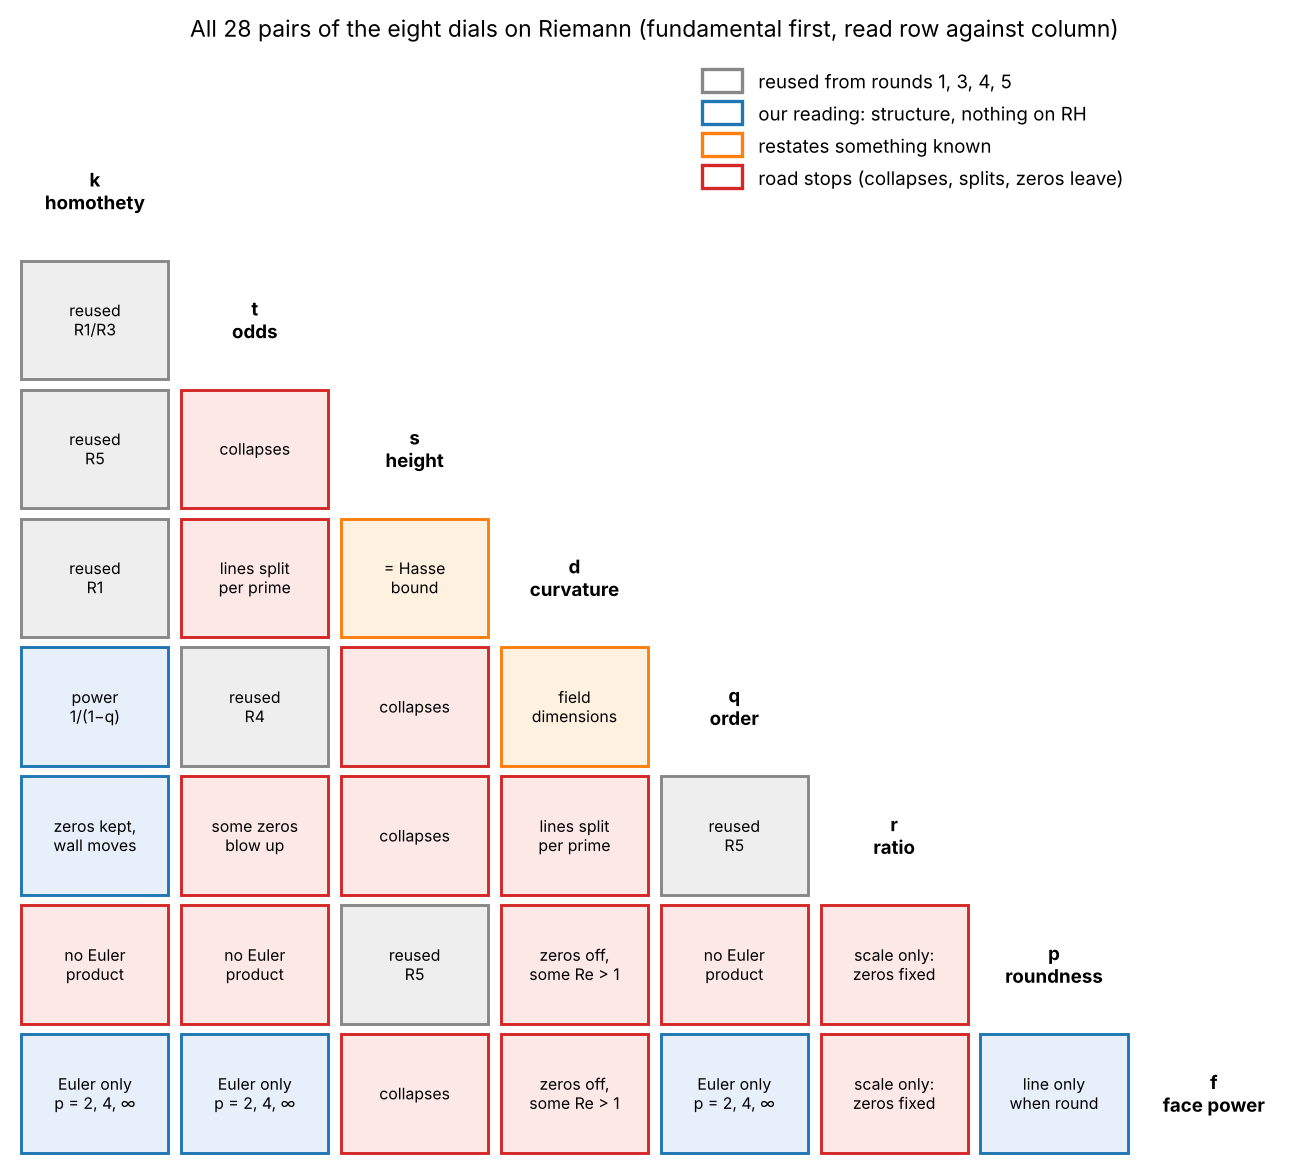
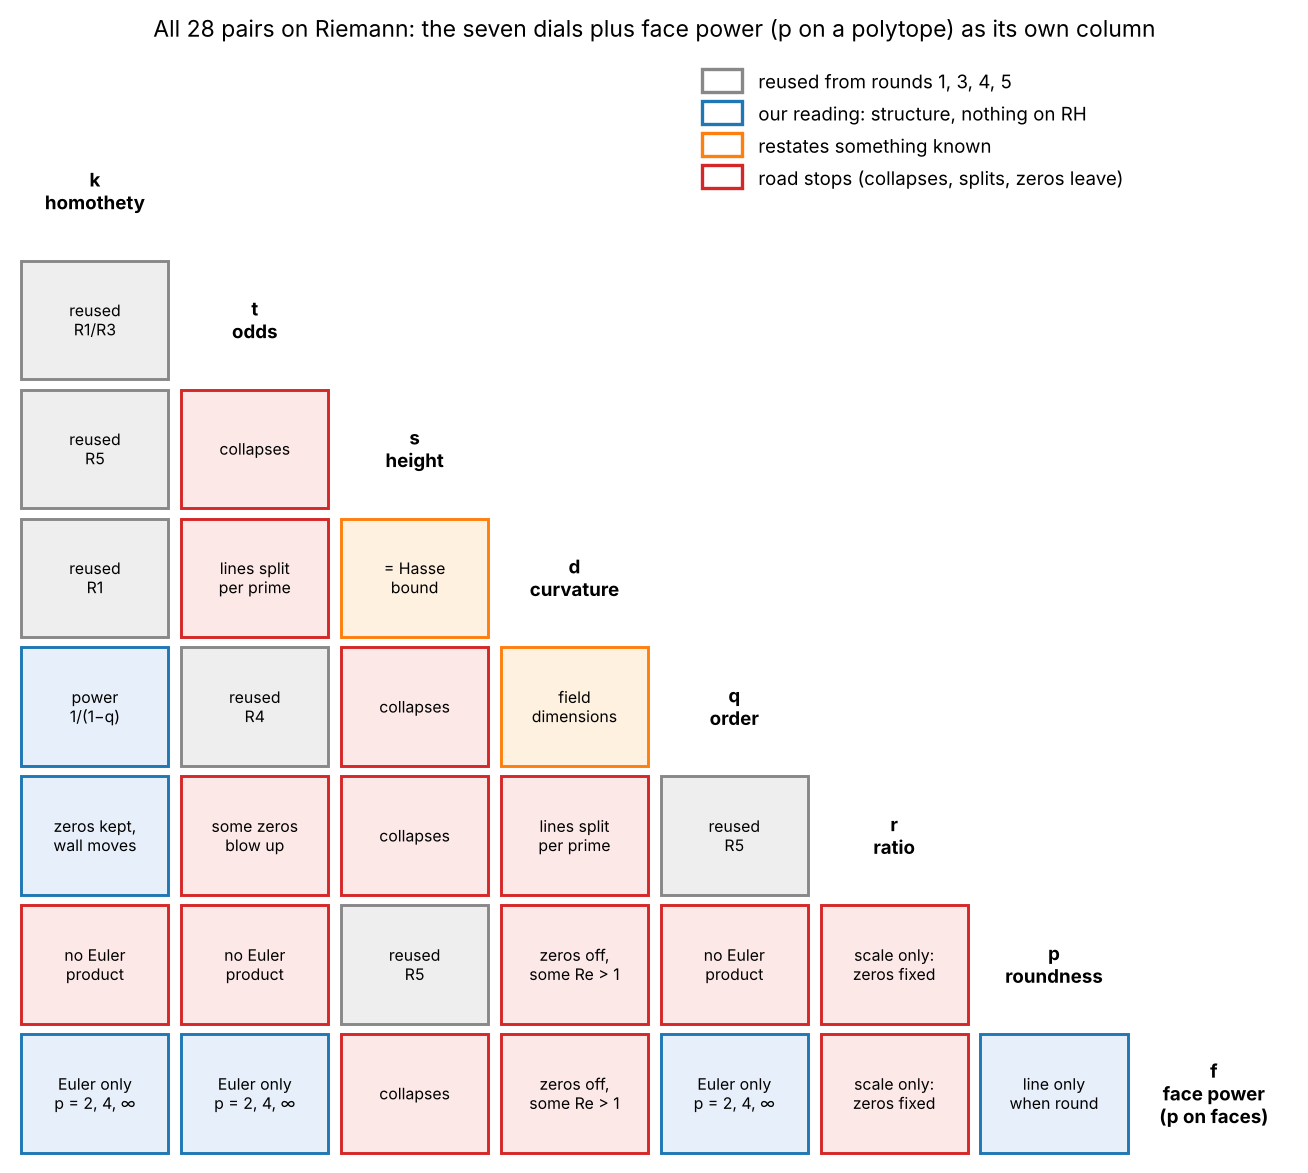
DRAFT: Riemann round 6 reads seven dials, with face power as roundness aimed at a polytope's faces (own column, 28 pairs)
README answer and dials paragraphs, fig0 caption and the Lean line; figures.py and fig0 with the new title and diagonal label. No result changed.

Changed region(s): [[0.1223, 0.0, 0.8869, 0.0307], [0.8869, 0.9207, 0.9786, 0.9821]]

diff --git a/topics/riemann/round6/figures.py b/topics/riemann/round6/figures.py
@@ -10,7 +10,7 @@ LZ = json.load(open('lattice_zeros.json')); EP = json.load(open('euler_pairs.jso
 LP = json.load(open('lattice_pairs.json')); RB = json.load(open('robustness.json'))
 
 # ---------------- fig0: the pair map
-D = ['k\nhomothety', 't\nodds', 's\nheight', 'd\ncurvature', 'q\norder', 'r\nratio', 'p\nroundness', 'f\nface power']
+D = ['k\nhomothety', 't\nodds', 's\nheight', 'd\ncurvature', 'q\norder', 'r\nratio', 'p\nroundness', 'f\nface power\n(p on faces)']
 code = {}   # (i, j) with i > j : (label, colour)
 reuse = {('d', 'k'): 'R1', ('t', 'k'): 'R1/R3', ('q', 't'): 'R4', ('s', 'k'): 'R5', ('r', 'q'): 'R5', ('p', 's'): 'R5'}
 verdict = {('s', 't'): ('collapses', R), ('d', 't'): ('lines split\nper prime', R), ('q', 'k'): ('power\n1/(1−q)', B),
@@ -38,7 +38,7 @@ for i in range(8):
 for col, lab, yy in [(G_, 'reused from rounds 1, 3, 4, 5', 8.35), (B, 'our reading: structure, nothing on RH', 8.1),
                      (O, 'restates something known', 7.85), (R, 'road stops (collapses, splits, zeros leave)', 7.6)]:
     ax.add_patch(Rectangle((4.3, yy - 0.08), 0.25, 0.18, fc='white', ec=col, lw=1.6)); ax.text(4.65, yy, lab, va='center', fontsize=9)
-ax.set_title('All 28 pairs of the eight dials on Riemann (fundamental first, read row against column)', fontsize=11)
+ax.set_title('All 28 pairs on Riemann: the seven dials plus face power (p on a polytope) as its own column', fontsize=11)
 plt.savefig('figures/fig0-pair-map.png', dpi=150, bbox_inches='tight'); plt.close()
 
 # ---------------- fig1: shapes of the two power dials

diff --git a/topics/riemann/round6/README.md b/topics/riemann/round6/README.md
@@ -4,9 +4,9 @@
 
 ## The answer
 
-**We ran every pair of the eight dials against Riemann, face power included. Not a lead.** No pair puts zeros on a line that was not already there. The face-power dial gives the clearest picture of why: its zeros sit on Re s = 1/2 only where the shape is exactly round. That happens at p = 2 and, on the hexagon, again at p = 4. Its zeros sit on Re s = 3/4 at p = ∞. At every other setting they scatter, some past Re s = 1.
+**We ran every pair of the seven dials against Riemann, with face power (roundness aimed at a polytope's faces) given its own runs. Not a lead.** No pair puts zeros on a line that was not already there. The face-power dial gives the clearest picture of why: its zeros sit on Re s = 1/2 only where the shape is exactly round. That happens at p = 2 and, on the hexagon, again at p = 4. Its zeros sit on Re s = 3/4 at p = ∞. At every other setting they scatter, some past Re s = 1.
 
-**The dials, fundamental first.** k (homothety), t (odds), s (height), d (curvature), q (order), r (similarity ratio), p (roundness), f (face power). C is derived from k and d, so it is not a dial. Face power is p applied to a polytope's face normals: g(x) = (mean over facets of |⟨n_i, x⟩|^p)^(1/p). On the square it is exactly the roundness dial; on the hexagon it is new.
+**The dials, fundamental first.** k (homothety), t (odds), s (height), d (curvature), q (order), r (similarity ratio), p (roundness). C is derived from k and d, so it is not a dial. Face power is the roundness dial aimed at a polytope's face normals, g(x) = (mean over facets of |⟨n_i, x⟩|^p)^(1/p), as in topics/shape-dials. On the square it is exactly the ℓp roundness; on the hexagon it behaves differently, so we gave it its own column, written f below. That makes 28 pairs: the 21 pairs of the seven dials plus face power with each.
 
 **Which pairs were reused.** 6 of the 28 pairs were done in earlier rounds, so we took their results as they stand:
 
@@ -34,7 +34,7 @@ The other 22 were run here in the order of the first dial, then the second: t+s,
 
 **Triples.** No pair showed anything on RH, so the only triple worth a look was the one behind the round points: curvature with both power dials (d+p+f). The round point at p = 4 needs the regular hexagon. On the skew lattice of x² + xy + 6y² with its own (irregular) Voronoi hexagon, p = 4 is not round and its zeros scatter (figure 4).
 
-![All 28 pairs, read row against column: grey reused, blue our reading, orange known, red where the road stops](figures/fig0-pair-map.png)
+![All 28 pairs (seven dials, plus face power as its own column), read row against column: grey reused, blue our reading, orange known, red where the road stops](figures/fig0-pair-map.png)
 
 ---
 
@@ -118,4 +118,4 @@ Curvature on the lattice side is the lattice's shape.
 - `lattice_pairs.py` → `lattice_pairs.json`: height on the lattice zeta, and flux.
 - `checks.py` → `checks_output.txt`: 24 of 24 pass.
 - `figures.py` → `figures/`: 8 pictures.
-- `lean/RiemannRound6.lean`: 15 statements (Δ scaling, the height detector, the hexagon's moments at p = 2, 4, 6, Wick rotation, the order dial's leading power, and the a⁴ + b⁴ counterexample). Compiled in the shared library as `FusedAlgebra.Topics.RiemannRound6` (namespace `CircleOp.RiemannRound6`; no proof changed).
+- `lean/RiemannRound6.lean`: 15 statements (Δ scaling, the height detector, the hexagon's moments at p = 2, 4, 6, Wick rotation, the order dial's leading power, and the a⁴ + b⁴ counterexample). Compiled in the shared library as `FusedAlgebra.Topics.RiemannRound6` (namespace `CircleOp.RiemannRound6`; no proof changed, no sorry).
